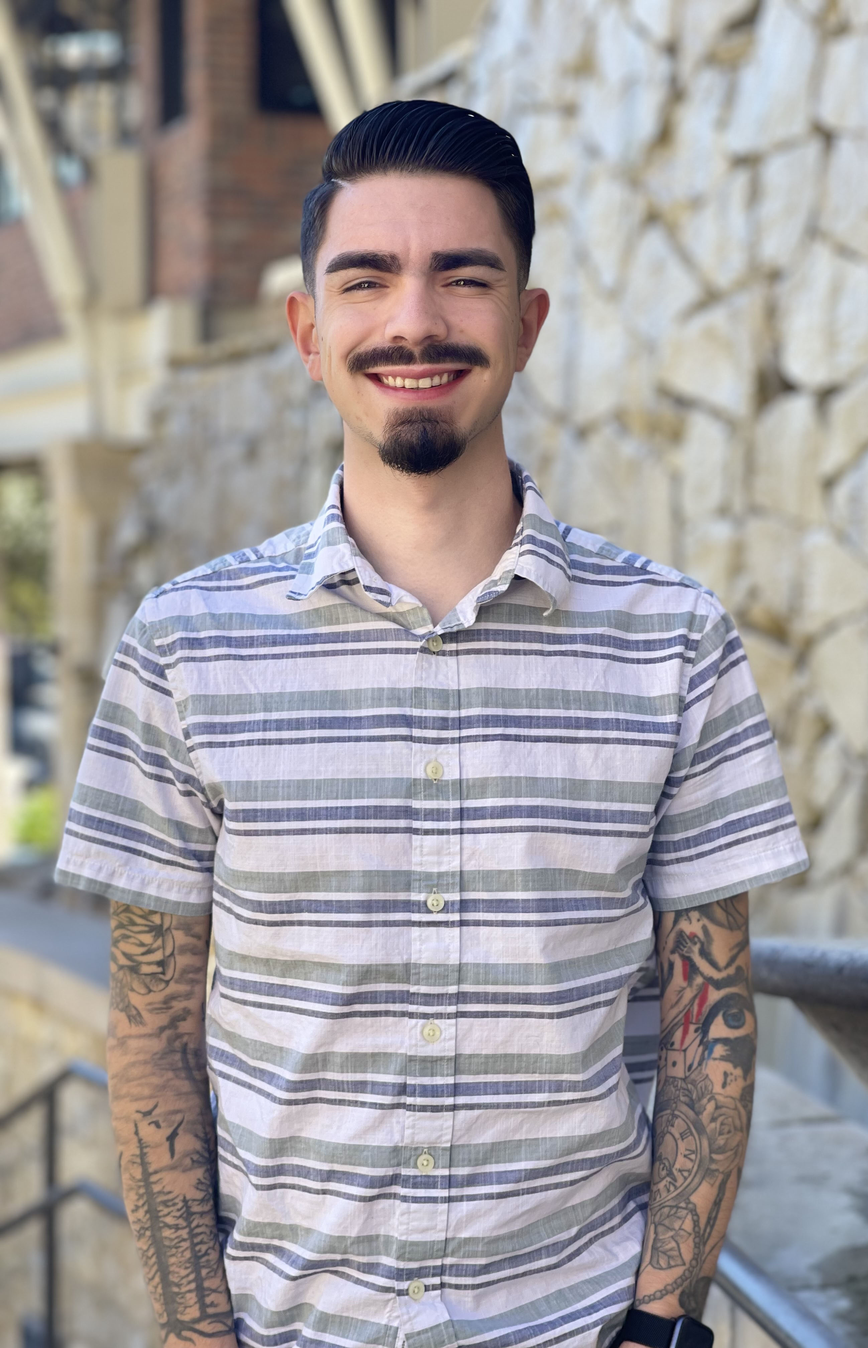
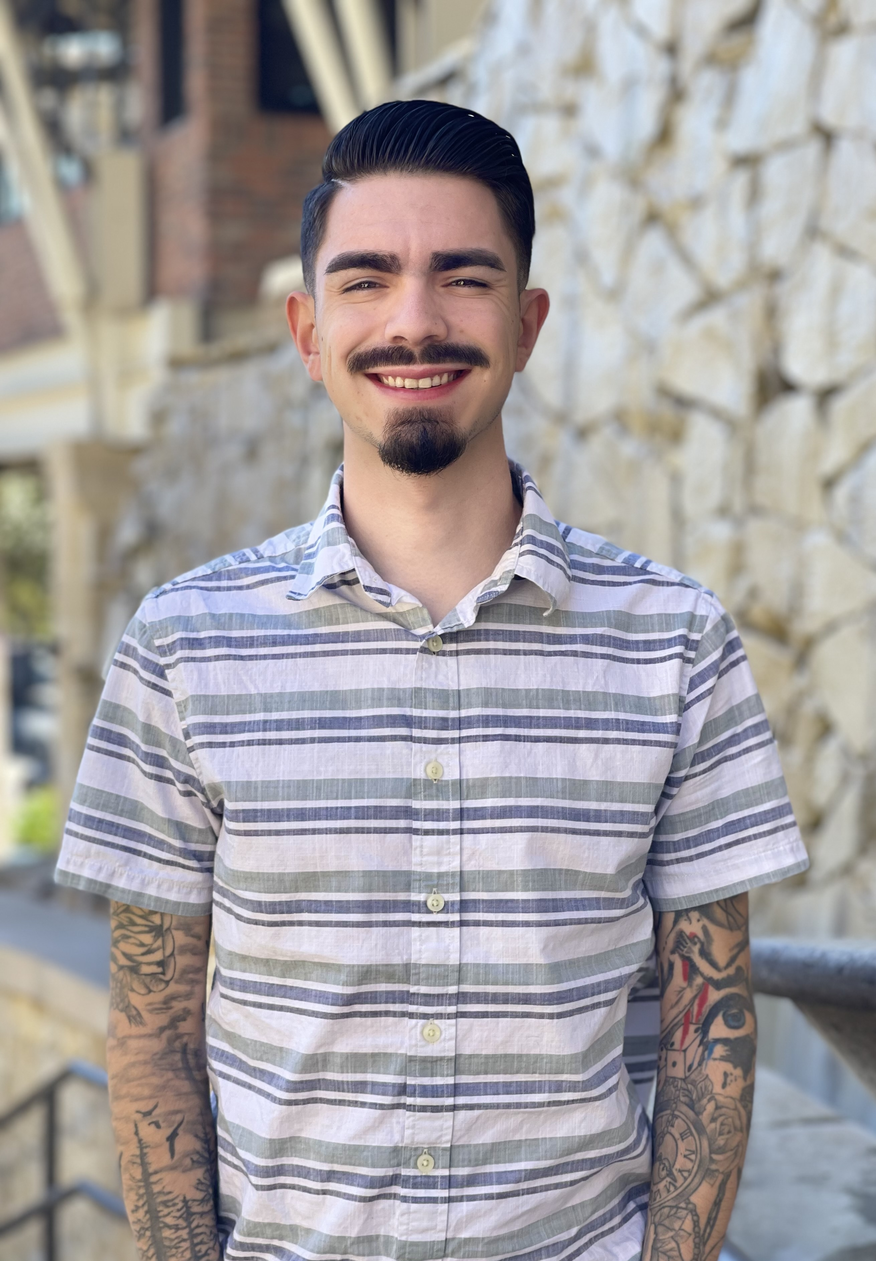
Styling updates

diff --git a/portfolio/src/Components/AboutMe/aboutMe.jsx b/portfolio/src/Components/AboutMe/aboutMe.jsx
@@ -6,25 +6,28 @@ import photoofme from '../Images/photoofme.jpg';
 const AboutMe = () => {
     return ( 
         <React.Fragment>
-            <div className='aboutMe'>
             <Container>
+            <div className='aboutMe'>
             <Row>
                 {/* <Col sm={1}></Col> */}
                 <Col sm={6}>
-                    <h1>.01 About Me</h1>
-                    <hr></hr>
+                    <div className='aboutMeHeading'>
+                        <h1>.01 About Me</h1>
+                        <hr></hr>
+                    </div>
+                    
                             <div className="about">
                             <p>
-                                Hi, everyone I'm Zach! I am an Army Veteran who served six years active duty, and
-                                I live in Central Texas where I started my journey to become a developer during
-                                my trasition out of the Army. I wanted to give myself an edge when it came to looking 
-                                for a job so I decidied to attend devCodeCamp, a coding boot camp.
+                                I am an Army Veteran who served six years active duty, and I live in Central Texas 
+                                where I started my journey to become a Software Developer during my trasition out of the Army. 
+                                I wanted to give myself an edge when it came to looking for a job so I decided to 
+                                attend devCodeCamp, a coding bootcamp.
                                 <br></br>
                                 <br></br>
 
-                                After devCodeCamp I decided to continue my B.S. in Computer Science, which I am set to 
-                                graduate next year! Follow me on my journey of getting my first developer job through GitHub
-                                and LinkedIn, both profiles can be found in the navigation bar up top.
+                                After devCodeCamp, I decided to continue my B.S. in Computer Science, which I am set to 
+                                graduate next year in 2023! Follow me on my journey of getting my first developer job through 
+                                GitHub and LinkedIn.
                             </p>
                             </div>
                 </Col>
@@ -35,8 +38,8 @@ const AboutMe = () => {
                     </div>
                 </Col>
             </Row>
-            </Container>
             </div>
+            </Container>
         </React.Fragment>
      );
 }

diff --git a/portfolio/src/Components/Projects/projects.jsx b/portfolio/src/Components/Projects/projects.jsx
@@ -37,7 +37,7 @@ const Projects = () => {
                 </Row>
                 <Row className="projectTwo">
                     <div className="projectName">
-                        <h2>eCommerce <a href="https://github.com/wrightzachary/Ecommerce-Front-End"><FiGithub size={32} color='#AFBDD1'/></a></h2>
+                        <h2>eCommerce - Star Wars Themed Store Application <a href="https://github.com/wrightzachary/Ecommerce-Front-End"><FiGithub size={32} color='#AFBDD1'/></a></h2>
                         <hr></hr>
                     </div>
                     <Col sm={6}>
@@ -55,7 +55,7 @@ const Projects = () => {
                 </Row>
                 <Row className="projects">
                     <div className="projectName">
-                        <h2>Other Projects <a href="https://github.com/wrightzachary"><FiGithub size={32} color='#AFBDD1'/></a></h2>
+                        <h2>Other Projects I Have Completed  <a href="https://github.com/wrightzachary"><FiGithub size={32} color='#AFBDD1'/></a></h2>
                         <hr></hr>
                     </div>
                     <Col sm={6}>

diff --git a/portfolio/src/Components/AboutMe/aboutMe.css b/portfolio/src/Components/AboutMe/aboutMe.css
@@ -1,15 +1,21 @@
 .about {
     text-align: left;
     font-size: 25px;
+    text-align: justify;
 }
 
 .aboutMe {
-    margin-top: 3%;
+    margin-top: 25%;
     font-family: monospace;
     font-weight: bold;
     color: white;
 }
 
 .photoOfMe {
-    border-radius: 15%;
+    border-radius: 5%;
+    margin-top: 2%;
+}
+
+.aboutMeHeading {
+    color: #BD871F;
 }

diff --git a/portfolio/src/Components/Projects/projects.css b/portfolio/src/Components/Projects/projects.css
@@ -21,4 +21,6 @@
 
 .projectsContainer {
     margin-top: 5%;
+    font-family: monospace;
+    font-weight: bold;
 }
